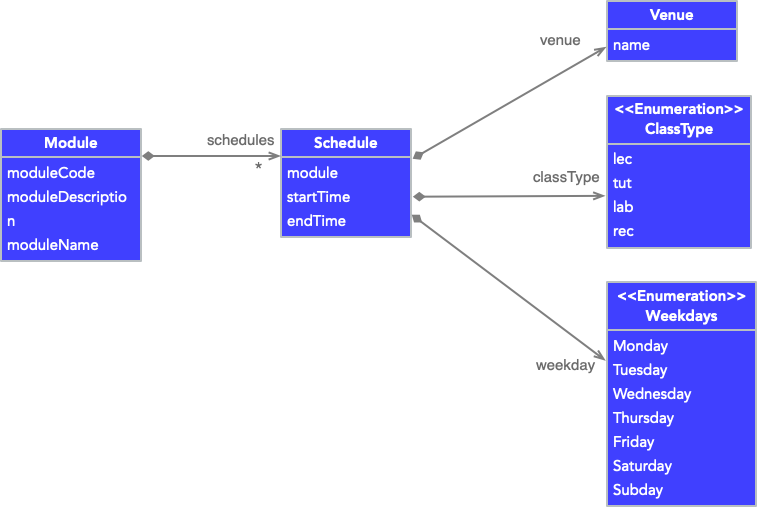
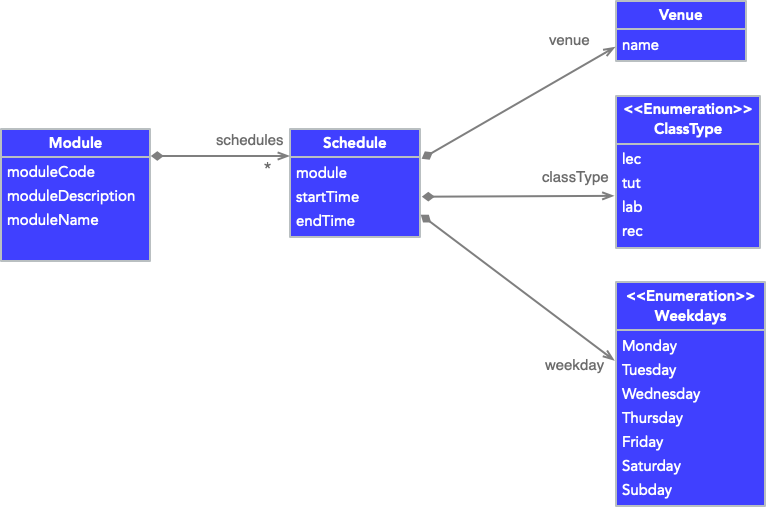
Fix typo and diagram

diff --git a/docs/DeveloperGuide.md b/docs/DeveloperGuide.md
@@ -229,7 +229,7 @@ The following sequence diagram shows how add schedule operation works
 
 ![EditScheduleSequence](images/EditScheduleSequence.png)
 
-After the ProfNUS receives the instruction to edit a target `Scheudule` (indicated by the index in the shown schedule list), it will modify it based on new information given by the user. 
+After the ProfNUS receives the instruction to edit a target `Schedule` (indicated by the index in the shown schedule list), it will modify it based on new information given by the user. 
 
 During the execution, the following validity checks will be conducted:
 
